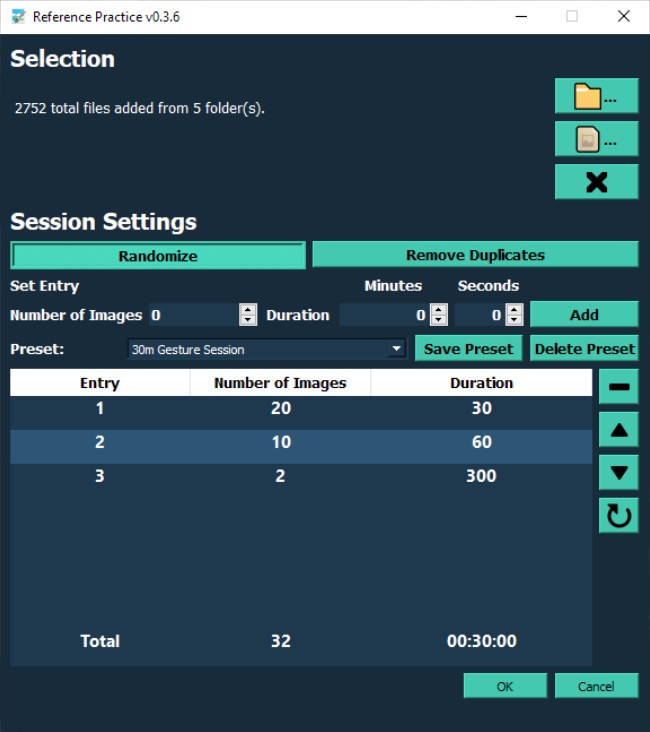
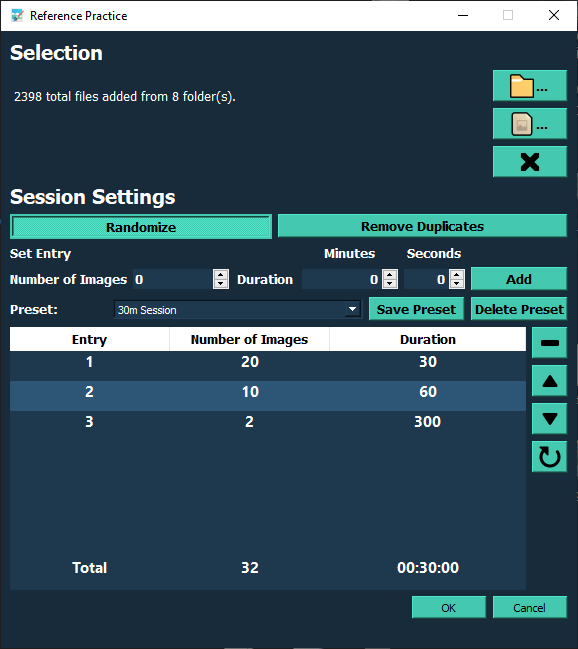
Add subdirectories and update screenshots
To include subdirectories open_folder is revised. A list of current and all subdirectories are given by a list comprehension using os.walk(). A new method is included to accommodate loading recent settings in the case of file/folder changes. Directories are rescanned at each start up now.

diff --git a/Image_Queuer.py b/Image_Queuer.py
@@ -114,24 +114,19 @@ class MainApp(QMainWindow, Ui_MainWindow):
             # Example of result
             # ['D:/.../image_displayer/atest2',
             # 'D:/.../image_displayer/atest1']
-            total_valid_files = 0
-            total_invalid_files = 0
+            total_valid_files, total_invalid_files = 0, 0
             self.selected_items.clear()
-            for directory in selected_dir.selectedFiles():
-                checked_files = self.check_files(os.listdir(directory))
-                total_valid_files += len(checked_files['valid_files'])
-                total_invalid_files += len(checked_files['invalid_files'])
-                if directory not in self.selection['folders']:
-                    self.selection['folders'].append(directory)
-                for file in checked_files['valid_files']:
-                    self.selection['files'].append(f'{directory}/{file}')
+            #TODO refactor so that calling os.walk is done just once 
+            directories = [x[0] for x in os.walk(selected_dir.selectedFiles()[0])]
+            total_valid_files, total_invalid_files = self.scan_directories(directories)
             self.selected_items.append(
                 f'{total_valid_files} file(s) added from '
-                f'{len(selected_dir.selectedFiles())} folders!')
+                f'{len(directories)} folders!')
+            #TODO update error handling here to accomodate subfolder inclusion
             if total_invalid_files > 0:
                 self.selected_items.append(
                     f'{total_invalid_files} file(s) not added. '
-                    f'Supported file types: {", ".join(self.valid_file_types)}. Does not add folders.')
+                    f'Supported file types: {", ".join(self.valid_file_types)}.')
                 QTest.qWait(1000)
             QTest.qWait(4000)
             self.display_status()
@@ -140,6 +135,21 @@ class MainApp(QMainWindow, Ui_MainWindow):
         QTest.qWait(2000)
         self.display_status()
 
+    def scan_directories(self, directories):
+            total_valid_files, total_invalid_files = 0, 0
+            for directory in directories:
+                if not os.path.exists(directory):
+                    self.selection['folders'].remove(directory)
+                    continue
+                checked_files = self.check_files([x[2] for x in os.walk(directory)][0])
+                total_valid_files += len(checked_files['valid_files'])
+                total_invalid_files += len(checked_files['invalid_files'])
+                if directory not in self.selection['folders']:
+                    self.selection['folders'].append(directory)
+                for file in checked_files['valid_files']:
+                    self.selection['files'].append(f'{directory}/{file}')
+            return total_valid_files, total_invalid_files
+            
     def check_files(self, files):
         """Checks if files are supported file types"""
         res = {'valid_files': [], 'invalid_files': []}
@@ -213,9 +223,9 @@ class MainApp(QMainWindow, Ui_MainWindow):
             try:
                 os.chdir(r'.\recent')
                 recent = shelve.open('recent')
-                keys = list(recent['recent'].keys())
-                for key in keys:
-                    self.selection[key] = recent['recent'][key]
+                if recent['recent'].get('folders'):
+                    self.selection['folders'] = recent['recent']['folders']
+                    self.scan_directories(self.selection['folders'])
                 self.preset_loader_box.setCurrentIndex(recent['recent_preset'])
                 self.randomize_selection.setChecked(recent['randomized'])
                 recent.close()
@@ -432,6 +442,9 @@ class MainApp(QMainWindow, Ui_MainWindow):
                 os.chdir(os.path.abspath(os.path.dirname(sys.argv[0])))
 
     def update_presets(self):
+        """
+        Populates the configuration with preset.
+        """
         self.preset_loader_box.clear()
         self.preset_names = []
         for p in [*self.presets]:
